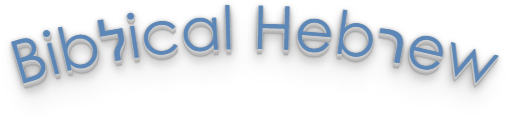
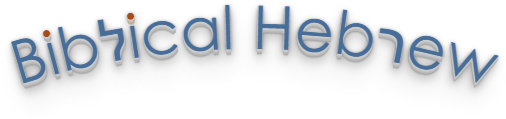
changed main login image

diff --git a/src/assets/images/biblical-hebrew/biblical-hebrew-svg.html b/src/assets/images/biblical-hebrew/biblical-hebrew-svg.html
@@ -11,7 +11,7 @@
     #text {
       font-family: "Avant Garde", Avantgarde, "Century Gothic", CenturyGothic, "AppleGothic", sans-serif;
       text-shadow: 0 1px 0 #ccc, 0 2px 0 #c9c9c9, 0 3px 0 #bbb, 0 4px 0 #b9b9b9, 0 5px 0 #aaa, 0 6px 1px rgba(0, 0, 0, .1), 0 0 5px rgba(0, 0, 0, .1), 0 1px 3px rgba(0, 0, 0, .3), 0 3px 5px rgba(0, 0, 0, .2), 0 5px 10px rgba(0, 0, 0, .25), 0 10px 10px rgba(0, 0, 0, .2), 0 20px 20px rgba(0, 0, 0, .15);
-      fill: #5687B8; /* #416d9a */
+      fill: #416d9a;
       text-align: center;
       text-rendering: optimizeLegibility;
       /*font-weight: bold;*/

diff --git a/src/app/base/login/login.component.html b/src/app/base/login/login.component.html
@@ -3,8 +3,7 @@
 
     <!-- Biblical Hebrew image -->
     <div>
-      <img alt="Biblical Hebrew" class="biblical-hebrew animated bounceInDown delay-2s"
-           src="/assets/images/biblical-hebrew/biblical-hebrew-darken-orange-5-tiny.png">
+      <img alt="Biblical Hebrew" class="biblical-hebrew animated bounceInDown delay-2s" src="/assets/images/biblical-hebrew/biblical-hebrew-tiny.png">
     </div>
 
     <div class="user-finder">

diff --git a/src/app/base/login/login.component.scss b/src/app/base/login/login.component.scss
@@ -5,6 +5,8 @@
 
 img.biblical-hebrew {
   margin-top: 25px;
+  position: relative;
+  right: 2px;
 }
 
 .user-finder {
